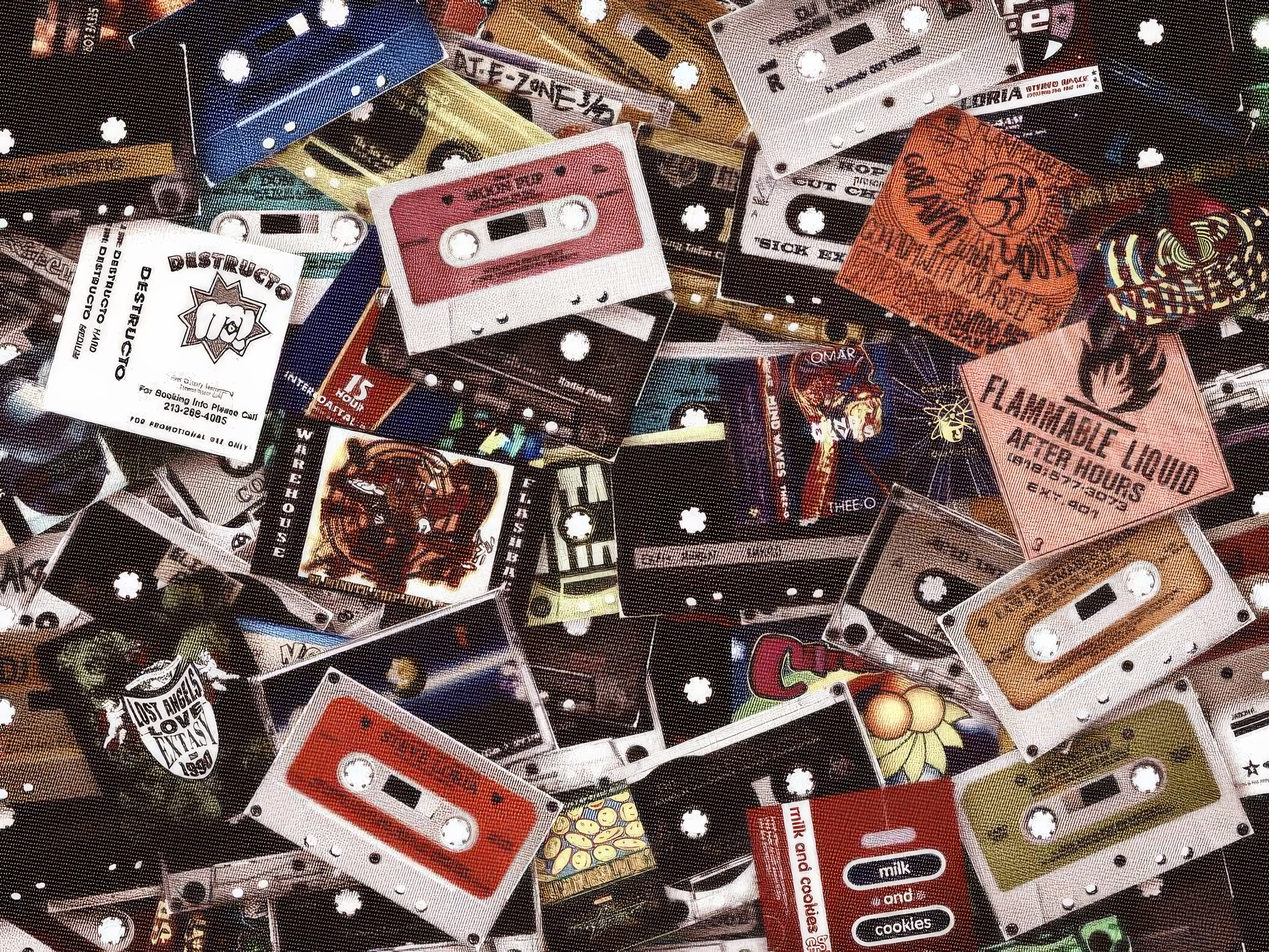
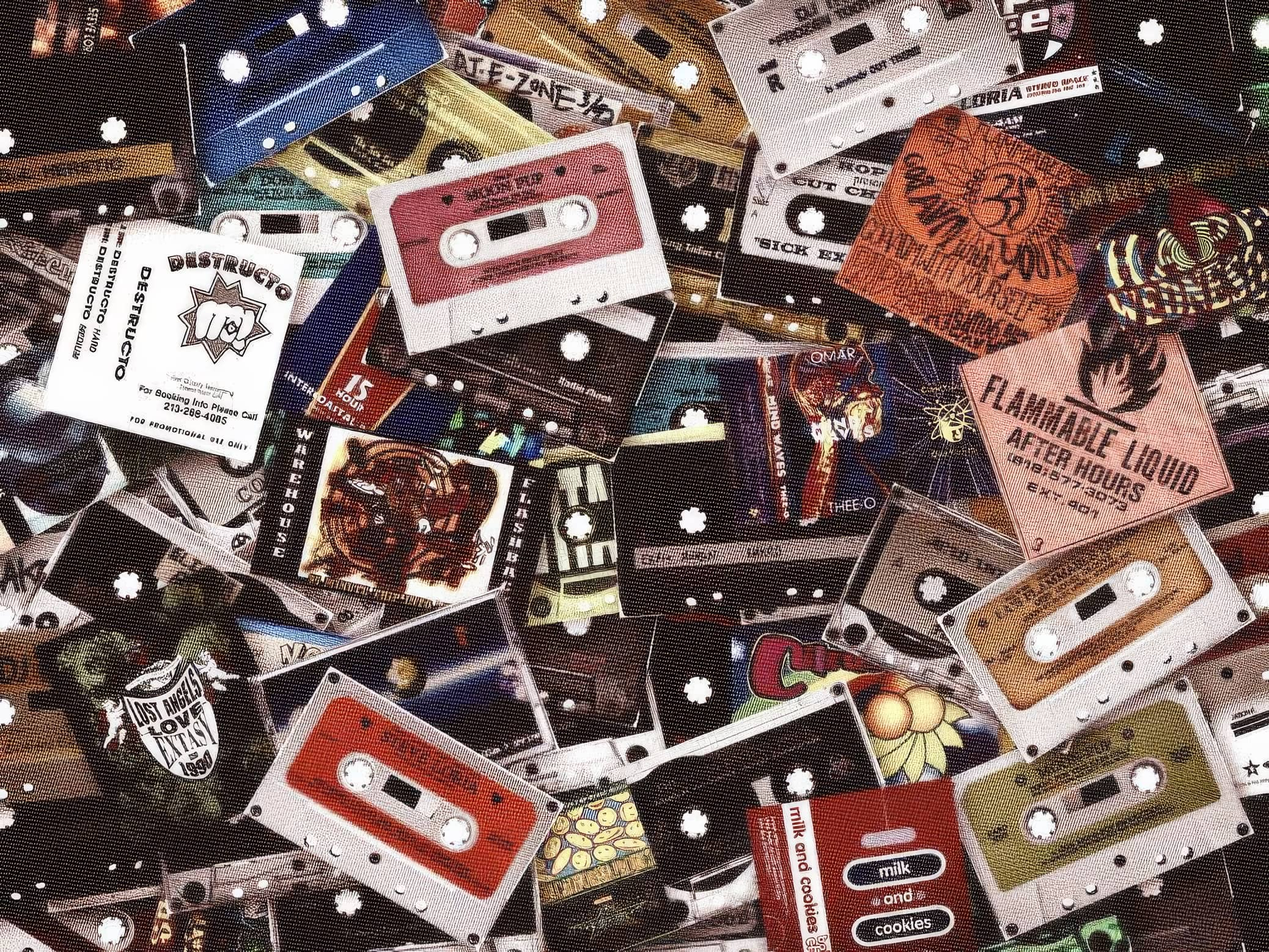
Add robots.txt and optimize home hero image
- Add robots.ts to guide search engine crawlers and link to sitemap
- Optimize home-hero.jpg file size for faster page load
- Remove unused proxy.ts auth middleware

diff --git a/web/app/robots.ts b/web/app/robots.ts
@@ -1,0 +1,12 @@
+import { MetadataRoute } from 'next'
+
+export default function robots(): MetadataRoute.Robots {
+  return {
+    rules: {
+      userAgent: '*',
+      allow: '/',
+      disallow: [],
+    },
+    sitemap: 'https://simfonik.com/sitemap.xml',
+  }
+}
